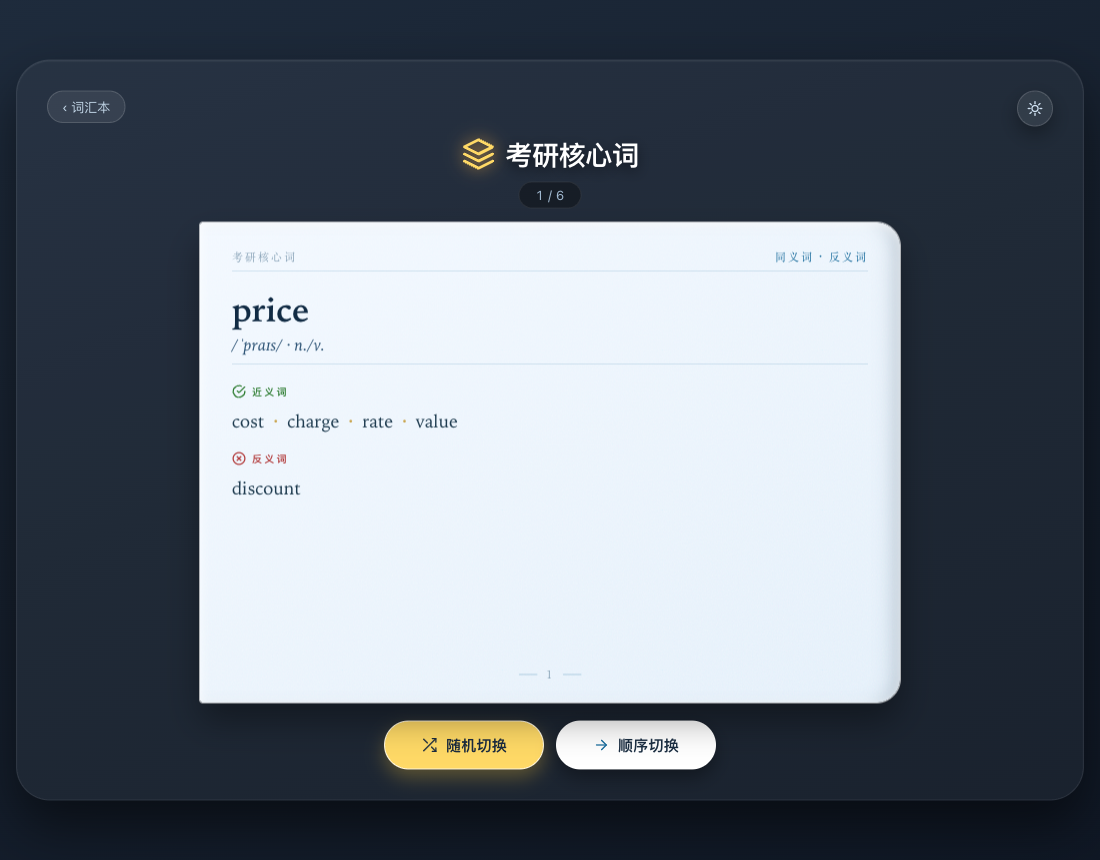
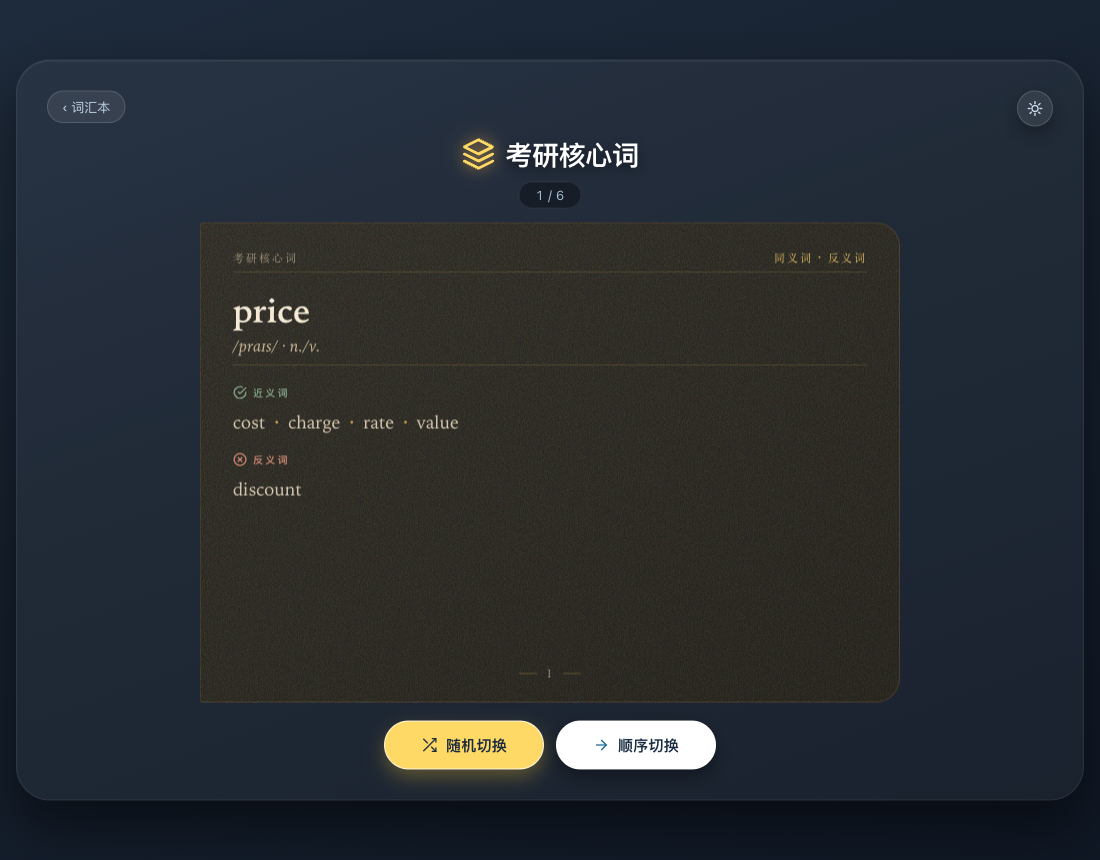
style: 学习页卡片扁平化，去掉全部阴影
上一版把学习页卡片做成「一页书」，但深度是靠三层阴影堆出来的：
外投影（卡片浮在背景上）、内高光（纸面反光）、装订边 inset 暗部。
三层叠起来更像一块有厚度的面板，而不是一页纸。

- .card-face 的 box-shadow 一律为 none，三层全部去掉；
- 边界改用一圈发丝描边：浅色 rgba(20,50,80,0.1)，
  深色换成烫金 rgba(201,164,76,0.16)，与外壳强调色对齐；
- 纸的层次交给纤维纹理（--book-grain）与页眉、页码、衬线字头这些
  「印刷件」表达，不再靠阴影造深度；
- 深色主题的覆盖规则只改 background-image 与 border-color，
  不再重写 box-shadow；
- 删掉浅色主题整块 html[data-theme="light"] .card-face { box-shadow } 覆盖规则。

装订边（左缘 inset 暗部）本质上也是一层内阴影，留着就还是「有深度」，
一并去掉；书的结构现在只靠页眉 + 页码 + 衬线字头 + 左窄右宽的圆角表达。

删规则而不是把值改成 none：深色与浅色那两套 box-shadow 都是整体覆盖，
只要还留着这些规则，将来改一处就会漏一处 —— 上一版就踩过「浅色主题
漏写装订边阴影导致它凭空消失」。现在基础样式里不写 box-shadow，
主题规则里也没有它，没有阴影可丢。

验证：真实浏览器（Playwright 驱动 scripts/serve.mjs）下深浅两个主题的
.card-face 计算样式 box-shadow 均为 none；正反面、切换动画（仍触发
2 次 animate）、分享页导出均正常；npm test 通过。
docs/images/card-front.png、card-back.png 已重新截取。

版本 -> 2026.10.02.2。

diff --git a/index.html b/index.html
@@ -22,7 +22,7 @@
 /* =========================================================
    书页
    ---------------------------------------------------------
-   把「学习页那张卡片」当一页书来排：订口、页眉、页码、衬线字头、
+   把「学习页那张卡片」当一页书来排：页眉、页码、衬线字头、
    词典式释义分栏。配色沿用整体那套（深色外壳 + 纸白 + 蓝 #1e6f9f +
    金 #ffd966），只加「书的结构」，不引入第二套配色。
    ========================================================= */
@@ -178,7 +178,7 @@ h1 .logo svg { width: 100%; height: 100%; display: block; }
   top: 0; right: 0; bottom: 0; left: 0;
   display: flex;
   flex-direction: column;
-  /* 订口窄、翻阅边宽：纸的左缘是装订边，右缘才是能捏起来翻的那一边 */
+  /* 装订边窄、翻阅边宽：纸的左缘是装订边，右缘才是能捏起来翻的那一边 */
   padding: clamp(16px, 3vw, 26px) clamp(20px, 3.6vw, 32px) clamp(12px, 2.2vw, 20px);
   border-radius: 3px clamp(16px, 3vw, 24px) clamp(16px, 3vw, 24px) 3px;
   backface-visibility: hidden;
@@ -189,12 +189,11 @@ h1 .logo svg { width: 100%; height: 100%; display: block; }
   /* 纸白与冷调浅蓝沿用原配色，只叠一层纤维噪声，让它像纸而不像面板 */
   background-image: var(--book-grain), linear-gradient(150deg, #ffffff 0%, #f3f9ff 100%);
   background-blend-mode: soft-light, normal;
-  box-shadow:
-    0 0 0 1px rgba(255, 255, 255, 0.65),
-    inset 0 2px 10px rgba(255, 255, 255, 0.85),
-    /* 订口：左缘向内压出一道暗部 —— 「这页被装订着」最直接的信号 */
-    -16px 0 24px -18px rgba(18, 48, 76, 0.5) inset,
-    0 18px 34px rgba(0, 0, 0, 0.36);
+  /* 扁平：整张卡片不做任何投影、内高光与装订边暗部。
+     纸的层次交给纤维纹理与页眉 / 页码这些「印刷件」去表达，
+     不再靠阴影造深度 —— 一有投影，它立刻又变回一块浮起来的面板。
+     卡片与背景同为浅色，靠一圈发丝描边划出边界（深色主题下换成烫金）。 */
+  border: 1px solid rgba(20, 50, 80, 0.1);
 }
 
 .card-back {
@@ -1416,35 +1415,20 @@ html[data-theme="light"] .btn-io {
 }
 html[data-theme="light"] .btn-io:active { background: rgba(20, 50, 80, 0.12); }
 
-/* 卡片在浅色背景上补一层描边与投影。
-   必须把订口阴影一起带上：只写 box-shadow 会整体覆盖深色那套，
-   订口会凭空消失（浅色下书页看着就又是一块面板）。 */
-html[data-theme="light"] .card-face {
-  box-shadow:
-    0 0 0 1px rgba(20, 50, 80, 0.1),
-    inset 0 2px 10px rgba(255, 255, 255, 0.85),
-    -16px 0 24px -18px rgba(18, 48, 76, 0.34) inset,
-    0 12px 26px rgba(30, 60, 90, 0.14);
-}
-
 /* ---------------------------------------------------------
    深色主题：书页也换成「灯下的纸」
    ---------------------------------------------------------
    深色外壳里留一张刺眼的白纸，等于在暗房里开一盏台灯 ——
    外壳越暗，那张白纸越跳，看久了眼睛也累。所以深色下书页
    改用暖调炭色，像旧书在灯下的颜色：仍然是纸（纤维纹理、
-   订口、页眉页码全都保留），只是不再反光。
+   页眉页码全都保留），只是不再反光。
    浅色主题保持原来的纸白，完全不受影响。
    --------------------------------------------------------- */
 html[data-theme="dark"] .card-face {
   background-image: var(--book-grain), linear-gradient(150deg, #2c2a24 0%, #232119 55%, #1d1b16 100%);
   background-blend-mode: soft-light, normal;
-  box-shadow:
-    0 0 0 1px rgba(201, 164, 76, 0.16),
-    inset 0 1px 1px rgba(255, 245, 220, 0.05),
-    /* 订口在深色下要更重，否则炭色纸上根本看不出装订边 */
-    -16px 0 24px -18px rgba(0, 0, 0, 0.8) inset,
-    0 18px 34px rgba(0, 0, 0, 0.5);
+  /* 深色下描边换成烫金，与外壳的强调色对齐；同样不投影 */
+  border-color: rgba(201, 164, 76, 0.16);
 }
 html[data-theme="dark"] .card-back {
   background-image: var(--book-grain), linear-gradient(150deg, #26241e 0%, #1d1b16 100%);
@@ -1969,7 +1953,7 @@ const TRASH_SVG = '<svg viewBox="0 0 24 24" fill="none" stroke="currentColor" st
      2. 提交：    git commit -am "chore(release): v2026.10.01.1"
      3. 打 tag：  git tag v2026.10.01.1 && git push origin main --tags
    即 APP_VERSION === git tag 去掉前导 'v'。Release 流程据此产出安装包与 Release 页。 */
-const APP_VERSION     = '2026.10.02.1';
+const APP_VERSION     = '2026.10.02.2';
 const APP_ORIGIN      = 'https://geek-xin.github.io';
 const APP_UPDATE_URL  = APP_ORIGIN + '/vocabulary-notebook/index.html';
 const APP_FILE_NAME   = 'vocabulary-notebook.html';

diff --git a/docs/design.md b/docs/design.md
@@ -257,7 +257,7 @@ Datamuse 的 `tags` 里带 `pron:S EH0 R AH0 N D IH1 P IH0 T IY0`，是 **ARPAbe
 | 书的部件 | 实现 |
 | --- | --- |
 | 纸张 | 内联 SVG 噪声（`--book-grain`）叠在原纸白渐变上，`soft-light` 混合 |
-| 订口 | 左缘向内压出的暗部（`inset` 阴影），左缘圆角收窄（3px）、右缘放宽 |
+| 边界 | 一圈发丝描边，左缘圆角收窄（3px）、右缘放宽；**不做任何投影** |
 | 页眉 | 左栏书名、右栏当前词条，下压一条细线（`.page-runhead`） |
 | 页码 | 页面下缘居中的 folio（`.page-folio`），两侧各一段短线 |
 | 字头 | 衬线字（`--book-serif`），词性改成贴字底的斜体金线而非胶囊 |
@@ -274,7 +274,7 @@ Datamuse 的 `tags` 里带 `pron:S EH0 R AH0 N D IH1 P IH0 T IY0`，是 **ARPAbe
 | 浅色 | 纸白 `#ffffff → #f3f9ff`（原样保留） | 深蓝墨 `#112b44` / `#0a1e2f` |
 | 深色 | 暖调炭色 `#2c2a24 → #1d1b16`，像旧书在灯下的颜色 | 暖白 `#f4ead6` / `#e6dac2` |
 
-深色下纤维纹理、订口、页眉、页码全部保留 —— 仍然是「纸」，只是不再反光；
+深色下纤维纹理、页眉、页码全部保留 —— 仍然是「纸」，只是不再反光；
 分隔线由冷蓝换成烫金，与深色外壳的强调色对齐。深色墨色对比度全部 ≥ 4.5:1（正文）
 或 ≥ 3:1（标题与页眉这类大字号/辅助文字），已用 WCAG 公式逐项核过。
 
@@ -287,8 +287,19 @@ Datamuse 的 `tags` 里带 `pron:S EH0 R AH0 N D IH1 P IH0 T IY0`，是 **ARPAbe
 页眉与页码由 `renderWord` 写入（`currentBookTitle` 记录当前书名），
 随切换动画一起更新；分享页（`buildShareScript`）同步。
 
-**浅色主题必须把订口阴影一起写全**：`html[data-theme="light"] .card-face` 的 `box-shadow`
-是整体覆盖而非叠加，只写外描边与投影会让订口凭空消失，书页看着又变回一块面板。
+**卡片是扁平的，一点阴影都没有。** `.card-face` 的 `box-shadow` 恒为 `none`：
+
+- 纸的层次由**纤维纹理**与页眉 / 页码这些「印刷件」表达，不靠投影造深度 ——
+  一旦有投影，卡片立刻又变回一块浮在背景上的面板，与「一页书」的定位相抵；
+- 卡片与背景同为浅色，所以边界改用一圈发丝描边（浅色 `rgba(20, 50, 80, 0.1)`、
+  深色烫金 `rgba(201, 164, 76, 0.16)`）划出；
+- 深色主题的覆盖规则里只改 `background-image` 与 `border-color`，
+  不再重写 `box-shadow`。这一条是踩过坑的：早先浅色主题整体覆盖 `box-shadow`，
+  漏写哪一层就丢哪一层；现在没有阴影可丢。
+
+> 订口（左缘 `inset` 暗部）曾用来暗示「这页被装订着」，扁平化时一并去掉：
+> 它本质上是一层内阴影，留着就还是「有深度」的。书的结构现在只靠
+> **页眉 + 页码 + 衬线字头 + 左窄右宽的圆角**表达。
 
 窄屏（≤640px）放不下「居中页码 + 右对齐提示」，页码改为 `position: static` 落到左端，
 与右端的翻转提示分列两侧。
@@ -313,10 +324,10 @@ Datamuse 的 `tags` 里带 `pron:S EH0 R AH0 N D IH1 P IH0 T IY0`，是 **ARPAbe
 动画由 Web Animations API 驱动（`switchTo`），分两拍：**退出 130ms → 换内容 → 进入 220ms**，
 换内容发生在卡片不可见的那一瞬间，因此看不到文字跳变。位移量固定为卡片宽度的 8%。
 
-> 曾试过做成「拟人翻页」（绕订口 `rotateY` 90°、`translateZ` 抬起、明暗层随角度加深、
+> 曾试过做成「拟人翻页」（绕左缘 `rotateY` 90°、`translateZ` 抬起、明暗层随角度加深、
 > 落下过冲回弹），但实际观感偏生硬，已回退为这里的滑出淡入。若要重做，
 > 关键在明暗层必须**一侧深一侧透明**且全程不透明（整页一起变暗只是淡出），
-> 以及 `transform-origin` 要落在订口而不是中心。
+> 以及 `transform-origin` 要落在左缘（装订边）而不是中心。
 
 - **不动 `renderWord`**：它现有 5 处调用，其中 3 处（进入学习页、联网补全后刷新、启动回填后刷新）
   **必须保持瞬间替换**，那些不是用户主动切换；另 2 处在 `switchTo` 内部。

diff --git a/docs/history.md b/docs/history.md
@@ -9,6 +9,58 @@
 
 ---
 
+## 2026.10.02.2 —— 学习页卡片扁平化：去掉全部阴影
+
+> 状态：**待发版**。
+
+### 问题
+
+上一版把学习页卡片做成了「一页书」，但深度是靠阴影堆出来的，一共三层：
+
+1. 外投影 `0 18px 34px rgba(0, 0, 0, 0.36)` —— 卡片「浮」在背景上；
+2. 内高光 `inset 0 2px 10px rgba(255, 255, 255, 0.85)` —— 纸面反光；
+3. 装订边 `-16px 0 24px -18px ... inset` —— 左缘压出一道暗部，暗示订口。
+
+三层叠起来，卡片更像一块**有厚度的面板**，而不是一页纸。扁平化就是把这层厚度去掉。
+
+### 改动
+
+`.card-face` 的 `box-shadow` 一律为 `none`，三层全部去掉：
+
+- **边界改用发丝描边**：卡片与背景同为浅色，去掉投影后需要一条线划出边界 ——
+  浅色 `rgba(20, 50, 80, 0.1)`，深色换成烫金 `rgba(201, 164, 76, 0.16)`（与外壳强调色对齐）；
+- **纸的层次交给纹理与「印刷件」**：纤维噪声（`--book-grain`）、页眉、页码、衬线字头全部保留，
+  只是不再靠阴影造深度；
+- **深色主题的覆盖规则只改 `background-image` 与 `border-color`**，不再重写 `box-shadow`；
+- **删掉浅色主题整块 `html[data-theme="light"] .card-face { box-shadow: ... }` 覆盖规则**。
+
+装订边（左缘 `inset` 暗部）本质上也是一层内阴影，留着就还是「有深度」，一并去掉。
+书的结构现在只靠**页眉 + 页码 + 衬线字头 + 左窄右宽的圆角**表达。
+
+### 为什么删规则而不是把阴影值改成 `none`
+
+深色主题那套 `box-shadow` 是写在 `html[data-theme="dark"]` 里的**整体覆盖**，
+浅色那套同理。只要还留着这些规则，将来改一处就会漏一处 ——
+上一版就踩过「浅色主题漏写装订边阴影导致它凭空消失」。
+现在基础样式里直接不写 `box-shadow`，主题规则里也没有它，**没有阴影可丢**。
+
+### 验证
+
+真实浏览器（Playwright 驱动 `scripts/serve.mjs`，1100×860 与 390×780 两种视口）。
+
+| 项目 | 结果 |
+| --- | --- |
+| `.card-face` 计算样式 | ✅ 深浅两个主题下 `box-shadow` 均为 `none` |
+| 正 / 背面 | ✅ 两面都无阴影，纤维纹理与页眉页码保留 |
+| 发丝描边 | ✅ 浅色 `1px rgba(20, 50, 80, 0.1)`；深色 `1px rgba(201, 164, 76, 0.16)` |
+| 切换动画 | ✅ 仍触发 2 次 `animate`（退出 + 进入），词条正常刷新 |
+| 分享页 | ✅ 导出 HTML 中 `.card-face` 无 `box-shadow`，`switchTo` 与 `.page-folio` 仍在 |
+| `npm test` | ✅ 内联脚本语法 + SW + 分享通道全部通过 |
+
+截图 `docs/images/card-front.png`、`card-back.png` 已按扁平后的界面重新渲染截取。
+
+---
+
 ## 2026.10.02.1 —— 补全成功才出卡片、学习页改排成「书页」、切换卡片加过渡动画、修 Android 分享
 
 > 状态：**已发布** —— tag `v2026.10.02.1`（2026-10-02），CI 四端产物全部构建成功，
